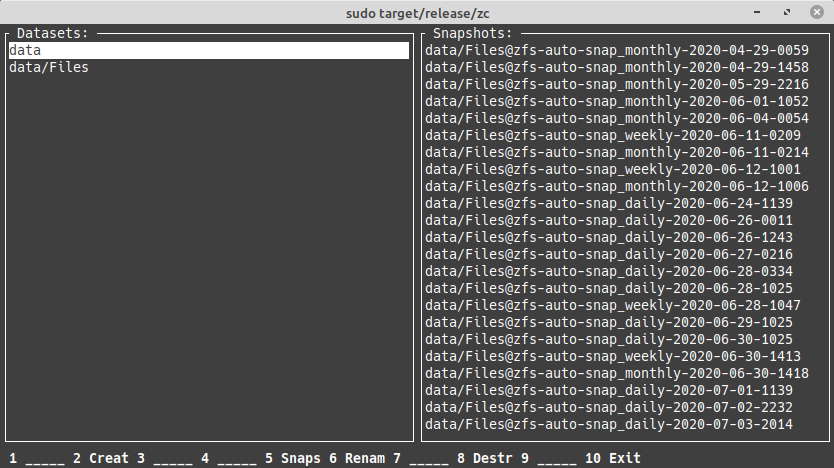
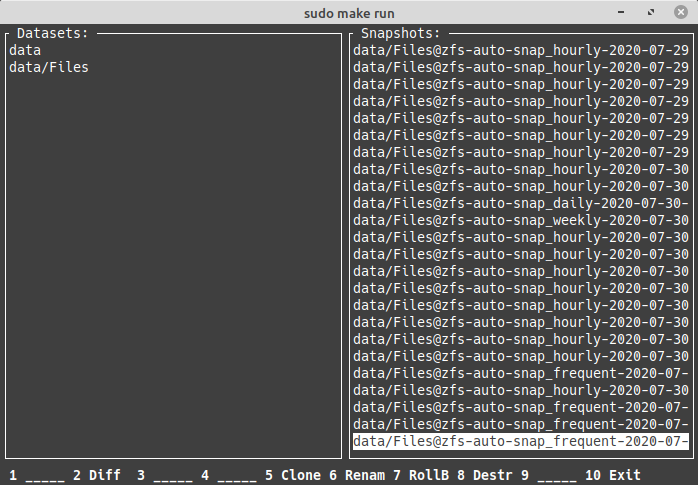
Completed ZFS diff function. Included BSD 4-clause license. Included version command line argument: -v

Changed region(s): [[0.0, 0.0, 1.0, 1.0]]

diff --git a/src/dialog.rs b/src/dialog.rs
@@ -48,6 +48,27 @@ pub fn finish() {
     endwin();
 }
 
+pub fn scroll(position: i32, mut start_from: i32, height: i32) -> i32 {
+
+    if position < 0 {
+        start_from = 0;
+    } 
+    
+    if start_from < 0 {
+        start_from = 0;
+    }
+        
+    if position < start_from {
+        start_from = position;
+    } 
+    
+    if position >= start_from + height-1 {
+        start_from = position - height+2;
+    }
+
+    start_from
+}
+
 pub fn window(height: i32, width: i32, start_y: i32, start_x: i32, title: &str) -> WINDOW {
 
     let win = newwin(height, width, start_y, start_x);
@@ -142,7 +163,10 @@ pub fn two_input_dialog(title: &str, prompt: &str, info1: &str, info2: &str) -> 
     let mut input1 = String::from(info1);
     let mut input2 = String::from(info2);
 
-    let mut is_input1_selected = true;
+    let mut is_input1_selected = false;
+    if info1.is_empty() {
+        is_input1_selected = true;
+    };
 
     loop {
         let key = getch();
@@ -245,24 +269,45 @@ pub fn result_dialog(title: &str, prompt: &str, info: Vec<&str>) {
     let dialog = window(dialog_height, dialog_width, start_y, start_x, title);
     mvwprintw(dialog, 2, 3, prompt);
 
-    for (i, line) in info.iter().enumerate() {
-
-        mvwprintw(dialog, 3+(i as i32), 3, line);
-    }
-
     let bar_x = dialog_width/2 - bar.len() as i32/2;
     mvwprintw(dialog, dialog_height-3, bar_x, bar);
     let foot_x = dialog_width/2 - footnote.len() as i32/2;
     mvwprintw(dialog, dialog_height-2, foot_x, footnote);
 
+    let mut start_from = 0;
+    let height = dialog_height - 6;
+    let width = (dialog_width - 6) as usize;
+
     loop {
+
+        if start_from < 0 {
+            start_from = 0;
+        }
+
+        if start_from >= info.len() as i32 - height {
+            start_from = info.len() as i32 - height;
+        }
+
+        for (i, line) in info.iter().enumerate() {
+
+            if (i as i32) < start_from { continue }
+            if (i as i32) >= height + start_from { break }
+
+            let text = fit_to_window(line, width);
+
+            mvwprintw(dialog, 3+(i as i32)-start_from, 3, text.as_str());
+        }   
 
         wrefresh(dialog);
 
         let key = getch();
 
-        if key == KEY_ENTER || key == KEY_ESC {
-            return //Ok(())
+        if key == KEY_ENTER || key == KEY_ESC || key == KEY_F10 {
+            return
+        } else if key == KEY_UP {
+            start_from -= 1;
+        } else if key == KEY_DOWN {
+            start_from += 1;
         }
     }
 }

diff --git a/src/content.rs b/src/content.rs
@@ -80,22 +80,7 @@ impl Content {
     }
 
     pub fn scroll(&mut self, height: i32) {
-
-        if self.position < 0 {
-            self.start_from = 0;
-        } 
-        
-        if self.start_from < 0 {
-            self.start_from = 0;
-        }
-            
-        if self.position < self.start_from {
-            self.start_from = self.position;
-        } 
-        
-        if self.position >= self.start_from + height-1 {
-            self.start_from = self.position - height+2;
-        }
+        self.start_from = dialog::scroll(self.position, self.start_from, height);
     }
 
     pub fn write(&self, window: WINDOW, height: i32, width: i32) {

diff --git a/src/main.rs b/src/main.rs
@@ -1,10 +1,27 @@
 
+use std::env;
+
 mod display;
 mod dialog;
 mod command;
 mod content;
 
+
+const VERSION: &str = "0.8.0";
+const RELEASE: &str = "30-Jul-2020";
+
 fn main() {
+
+    let args: Vec<String> = env::args().collect();
+
+    if args.contains(&String::from("-v")) {
+
+        println!("ZFS Commander - Copyright (c) 2020, Manoel de Souza <manoel.desouza@outlook.com.br>");
+        println!("All rights reserved.");
+        println!("       Version: {}", VERSION);
+        println!("  Release Date: {}", RELEASE);
+        return;
+    }
 
     if command::is_zfs_installed() {
         let mut screen = display::Screen::new();

diff --git a/src/command.rs b/src/command.rs
@@ -127,7 +127,7 @@ pub fn zfs_diff(snapshot_1: String, snapshot_2: String) {
     let arguments = vec!["diff", snapshot_1.as_str(), snapshot_2.as_str()];
     let output = run_command("zfs", &arguments);
 
-    dialog::result_dialog(" Snapshot Diff ", "Legend:", output.lines().collect());
+    dialog::result_dialog(" Snapshot Diff ", "[ M modified | - removed | + created | R renamed ]", output.lines().collect());
 }
 
 pub fn zfs_rollback(selected_elements: Vec<String>) {
